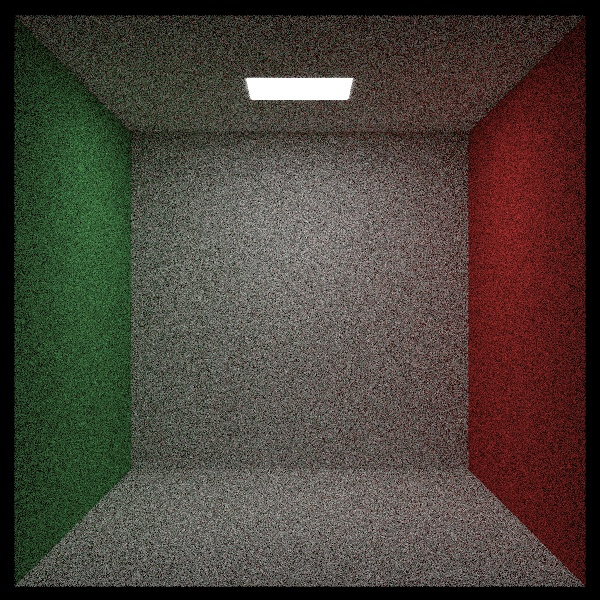
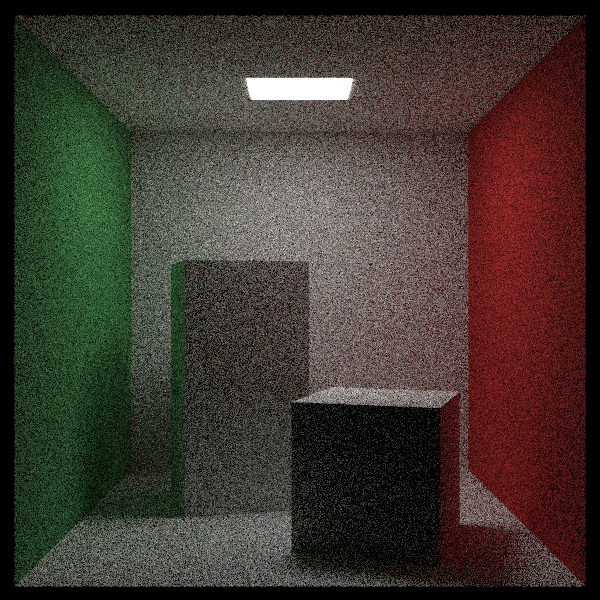
Instances

diff --git a/hit/rotete.cpp b/hit/rotete.cpp
@@ -1,0 +1,72 @@
+#include "rotate.h"
+
+RayTracing::RotateY::RotateY(std::shared_ptr<Hittable> p, ValType angle)
+	: ptr_(p) {
+	auto radians = degrees_to_radians(angle);
+	sin_theta_ = std::sin(radians);
+	cos_theta_ = std::cos(radians);
+	hasbox_ = ptr_->bounding_box(0, 1, bbox_);
+
+	Point3 min(infinity, infinity, infinity);
+	Point3 max(-infinity, -infinity, -infinity);
+
+	for (int i = 0; i < 2; i++)
+	{
+		for (int j = 0; j < 2; j++)
+		{
+			for (int k = 0; k < 2; k++)
+			{
+				auto x = i * bbox_.max().x() + (1 - i) * bbox_.min().x();
+				auto y = j * bbox_.max().y() + (1 - j) * bbox_.min().y();
+				auto z = k * bbox_.max().z() + (1 - k) * bbox_.min().z();
+
+				auto newx = cos_theta_ * x + sin_theta_ * z;
+				auto newz = -sin_theta_ * x + cos_theta_ * z;
+
+				Vec3 tester(newx, y, newz);
+
+				for (int c = 0; c < 3; c++)
+				{
+					min[c] = std::min(min[c], tester[c]);
+					max[c] = std::max(max[c], tester[c]);
+				}
+			}
+		}
+	}
+
+	bbox_ = AABB(min, max);
+}
+
+bool RayTracing::RotateY::hit(const Ray& r, ValType t_min, ValType t_max, 
+	HitRecord& rec) const
+{
+	auto origin = r.origin();
+	auto direction = r.direction();
+
+	origin[0] = cos_theta_ * r.origin()[0] - sin_theta_ * r.origin()[2];
+	origin[2] = sin_theta_ * r.origin()[0] + cos_theta_ * r.origin()[2];
+
+	direction[0] = cos_theta_ * r.direction()[0] - sin_theta_ * r.direction()[2];
+	direction[2] = sin_theta_ * r.direction()[0] + cos_theta_ * r.direction()[2];
+
+	Ray rotated_r(origin, direction, r.time());
+
+	if (!ptr_->hit(rotated_r, t_min, t_max, rec))
+	{
+		return false;
+	}
+
+	auto p = rec.p_;
+	auto normal = rec.normal_;
+
+	p[0] = cos_theta_ * rec.p_[0] + sin_theta_ * rec.p_[2];
+	p[2] = -sin_theta_ * rec.p_[0] + cos_theta_ * rec.p_[2];
+
+	normal[0] = cos_theta_ * rec.normal_[0] + sin_theta_ * rec.normal_[2];
+	normal[2] = -sin_theta_ * rec.normal_[0] + cos_theta_ * rec.normal_[2];
+
+	rec.p_ = p;
+	rec.set_face_normal(rotated_r, normal);
+
+	return true;
+}

diff --git a/main.cpp b/main.cpp
@@ -5,9 +5,12 @@
 #include <opencv2/imgcodecs.hpp>
 
 #include "hit/aarect.h"
+#include "hit/box.h"
 #include "hit/hit.h"
 #include "hit/hittable_list.h"
+#include "hit/rotate.h"
 #include "hit/sphere.h"
+#include "hit/translate.h"
 #include "hit/moving_sphere.h"
 #include "material/dielectric.h"
 #include "material/diffuse_light.h"
@@ -189,6 +192,21 @@ RayTracing::HittableList cornell_box() {
 	objects.add(std::make_shared<RayTracing::XZRect>(0, 555, 0, 555, 555, white));
 	objects.add(std::make_shared<RayTracing::XYRect>(0, 555, 0, 555, 555, white));
 
+	std::shared_ptr<RayTracing::Hittable> box1 =
+		std::make_shared<RayTracing::Box>(RayTracing::Point3(0, 0, 0),
+			RayTracing::Point3(165, 330, 165), white);
+	box1 = std::make_shared<RayTracing::RotateY>(box1, 15);
+	box1 = std::make_shared<RayTracing::Translate>(box1, RayTracing::Vec3(265, 0, 295));
+	objects.add(box1);
+
+	std::shared_ptr<RayTracing::Hittable> box2 =
+		std::make_shared<RayTracing::Box>(RayTracing::Point3(0, 0, 0),
+			RayTracing::Point3(165, 165, 165), white);
+	box2 = std::make_shared<RayTracing::RotateY>(box2, -18);
+	box2 = std::make_shared<RayTracing::Translate>(box2, RayTracing::Vec3(130, 0, 65));
+	objects.add(box2);
+
+
 	return objects;
 }
 
@@ -310,7 +328,7 @@ int main()
 	// Render
 	cv::Mat img_mat(image_height, image_width, CV_8UC3);
 	std::atomic<int> remaining = image_height;
-#pragma omp parallel for num_threads(12)
+#pragma omp parallel for
 	for (int j = image_height - 1; j >= 0; --j) {
 		remaining--;
 		std::cerr << "\rScanlines remaining: " << remaining << ' ' << std::flush;

diff --git a/hit/aarect.h b/hit/aarect.h
@@ -24,7 +24,7 @@ namespace RayTracing
 		virtual bool bounding_box(ValType time0, ValType time1,
 			AABB& output_box) const override
 		{
-			// The bounding box must have non-zero width in each dimension,
+			// The bounding Box must have non-zero width in each dimension,
 			// so pad the Z dimension a small amount.
 			output_box = AABB(Point3(x0_, y0_, k_ - 0.0001),
 				Point3(x1_, y1_, k_ + 0.0001));
@@ -50,7 +50,7 @@ namespace RayTracing
 		virtual bool bounding_box(ValType time0, ValType time1, AABB& output_box)
 			const override
 		{
-			// The bounding box must have non-zero width in each dimension, so pad the Y
+			// The bounding Box must have non-zero width in each dimension, so pad the Y
 			// dimension a small amount.
 			output_box = AABB(Point3(x0_, k_ - 0.0001, z0_), Point3(x1_, k_ + 0.0001, z1_));
 			return true;
@@ -75,7 +75,7 @@ namespace RayTracing
 		virtual bool bounding_box(ValType time0, ValType time1, AABB& output_box)
 			const override
 		{
-			// The bounding box must have non-zero width in each dimension, so pad the X
+			// The bounding Box must have non-zero width in each dimension, so pad the X
 			// dimension a small amount.
 			output_box = AABB(Point3(k_ - 0.0001, y0_, z0_), Point3(k_ + 0.0001, y1_, z1_));
 			return true;

diff --git a/hit/box.cpp b/hit/box.cpp
@@ -1,0 +1,31 @@
+#include "box.h"
+
+#include "aarect.h"
+
+RayTracing::Box::Box(const Point3& p0, const Point3& p1,
+	std::shared_ptr<Material> ptr)
+{
+	box_min_ = p0;
+	box_max_ = p1;
+
+	sides_.add(make_shared<XYRect>(p0.x(), p1.x(), p0.y(), p1.y(), p1.z(),
+		ptr));
+	sides_.add(make_shared<XYRect>(p0.x(), p1.x(), p0.y(), p1.y(), p0.z(),
+		ptr));
+
+	sides_.add(make_shared<XZRect>(p0.x(), p1.x(), p0.z(), p1.z(), p1.y(),
+		ptr));
+	sides_.add(make_shared<XZRect>(p0.x(), p1.x(), p0.z(), p1.z(), p0.y(),
+		ptr));
+
+	sides_.add(make_shared<YZRect>(p0.y(), p1.y(), p0.z(), p1.z(), p1.x(),
+		ptr));
+	sides_.add(make_shared<YZRect>(p0.y(), p1.y(), p0.z(), p1.z(), p0.x(),
+		ptr));
+}
+
+bool RayTracing::Box::hit(const Ray& r, ValType t_min, ValType t_max,
+	HitRecord& rec) const
+{
+	return sides_.hit(r, t_min, t_max, rec);
+}

diff --git a/hit/box.h b/hit/box.h
@@ -1,0 +1,35 @@
+#pragma once
+#ifndef BOX_H
+#define BOX_H
+
+#include "hittable_list.h"
+#include "../vec3/vec3.h"
+
+namespace RayTracing
+{
+	class Box : public HittableList
+	{
+	public:
+		Box() {}
+		Box(const Point3& p0, const Point3& p1,
+			std::shared_ptr<Material> ptr);
+
+		virtual bool hit(const Ray& r, ValType t_min, ValType t_max,
+			HitRecord& rec) const override;
+
+		virtual bool bounding_box(ValType time0, ValType time1,
+			AABB& output_box) const override
+		{
+			output_box = AABB(box_min_, box_max_);
+			return true;
+		}
+
+	public:
+		Point3 box_min_;
+		Point3 box_max_;
+		HittableList sides_;
+	};
+}
+
+
+#endif // !BOX_H

diff --git a/hit/translate.cpp b/hit/translate.cpp
@@ -1,0 +1,31 @@
+#include "translate.h"
+
+bool RayTracing::Translate::hit(const Ray& r, ValType t_min, ValType t_max,
+	HitRecord& rec) const
+{
+	Ray moved_r(r.origin() - offset_, r.direction(), r.time());
+	if (!ptr_->hit(moved_r, t_min, t_max, rec))
+	{
+		return false;
+	}
+
+	rec.p_ += offset_;
+	rec.set_face_normal(moved_r, rec.normal_);
+
+	return true;
+}
+
+bool RayTracing::Translate::bounding_box(ValType time0, ValType time1, 
+	AABB& output_box) const
+{
+	if (!ptr_->bounding_box(time0, time1, output_box))
+	{
+		return false;
+	}
+
+	output_box = AABB(
+		output_box.min() + offset_,
+		output_box.max() + offset_);
+
+	return true;
+}

diff --git a/texture/checker_texture.h b/texture/checker_texture.h
@@ -23,8 +23,11 @@ namespace RayTracing
             : even_(std::make_shared<SolidColor>(c1)), 
             odd_(std::make_shared<SolidColor>(c2)) {}
 
-        virtual Color value(ValType u, ValType v, const Point3& p) const override {
-            auto sines = std::sin(10 * p.x()) * std::sin(10 * p.y()) * std::sin(10 * p.z());
+        virtual Color value(ValType u, ValType v, const Point3& p) 
+            const override 
+        {
+            auto sines = std::sin(10 * p.x()) * std::sin(10 * p.y()) 
+                * std::sin(10 * p.z());
             if (sines < 0)
                 return odd_->value(u, v, p);
             else

diff --git a/hit/rotate.h b/hit/rotate.h
@@ -1,0 +1,37 @@
+#pragma once
+
+#ifndef ROTATE_H
+#define  ROTATE_H
+
+#include "hit.h"
+namespace RayTracing
+{
+
+	class RotateY :public Hittable
+	{
+	public:
+		RotateY(std::shared_ptr<Hittable> p, ValType angle);
+
+		virtual bool hit(
+			const Ray& r, ValType t_min, ValType t_max, HitRecord& rec) const
+			override;
+
+		virtual bool bounding_box(ValType time0, ValType time1,
+			AABB& output_box)
+			const override
+		{
+			output_box = bbox_;
+			return hasbox_;
+		}
+
+	public:
+		std::shared_ptr<Hittable> ptr_;
+		ValType sin_theta_;
+		ValType cos_theta_;
+		bool hasbox_;
+		AABB bbox_;
+	};
+
+}
+
+#endif // !ROTATE_H

diff --git a/hit/translate.h b/hit/translate.h
@@ -1,0 +1,30 @@
+#pragma once
+
+#ifndef TRANSLATE_H
+#define TRANSLATE_H
+
+#include "hit.h"
+
+namespace RayTracing
+{
+
+	class Translate :public Hittable
+	{
+	public:
+		Translate(std::shared_ptr<Hittable> p, const Vec3& displacement)
+			: ptr_(p), offset_(displacement) {}
+
+		virtual bool hit(
+			const Ray& r, ValType t_min, ValType t_max, HitRecord& rec)const
+			override;
+
+		virtual bool bounding_box(ValType time0, ValType time1,
+			AABB& output_box)const override;
+
+	public:
+		std::shared_ptr<Hittable> ptr_;
+		Vec3 offset_;
+	};
+
+}
+#endif // !TRANSLATE_H

diff --git a/material/dielectric.cpp b/material/dielectric.cpp
@@ -9,7 +9,7 @@ bool RayTracing::Dielectric::scatter(const Ray& r_in,
 	ValType refraction_ratio = rec.front_face_ ? (1.0 / ir_) : ir_;
 
 	Vec3 unit_direction = r_in.direction().unit();
-    ValType cos_theta = fmin(-unit_direction.dot(rec.normal_), 1.0);
+    ValType cos_theta = std::min(-unit_direction.dot(rec.normal_), 1.0);
     ValType sin_theta = sqrt(1.0 - cos_theta * cos_theta);
 
     bool cannot_refract = refraction_ratio * sin_theta > 1.0;

diff --git a/vec3/vec3.cpp b/vec3/vec3.cpp
@@ -31,7 +31,7 @@ RayTracing::Vec3 RayTracing::Vec3::reflect(const Vec3& n)
 }
 
 RayTracing::Vec3 RayTracing::Vec3::refract(const Vec3& n, ValType etai_over_etat) {
-	auto cos_theta = fmin(operator-().dot(n), 1.0);
+	auto cos_theta = std::min(operator-().dot(n), 1.0);
 	Vec3 r_out_perp = etai_over_etat * operator+(cos_theta * n);
 	Vec3 r_out_parallel = -sqrt(fabs(1.0 - r_out_perp.length_squared())) * n;
 	return r_out_perp + r_out_parallel;

diff --git a/texture/noise_texture.h b/texture/noise_texture.h
@@ -17,7 +17,8 @@ namespace RayTracing
 		NoiseTexture() {}
 		NoiseTexture(ValType sc) : scale_(sc) {}
 
-		virtual Color value(ValType u, ValType v, const Point3& p) const override
+		virtual Color value(ValType u, ValType v, const Point3& p) const
+			override
 		{
 			return Color(1, 1, 1) * 0.5 * (1 + std::sin(scale_ * p.z() +
 				10 * noise_.turb(p)));
